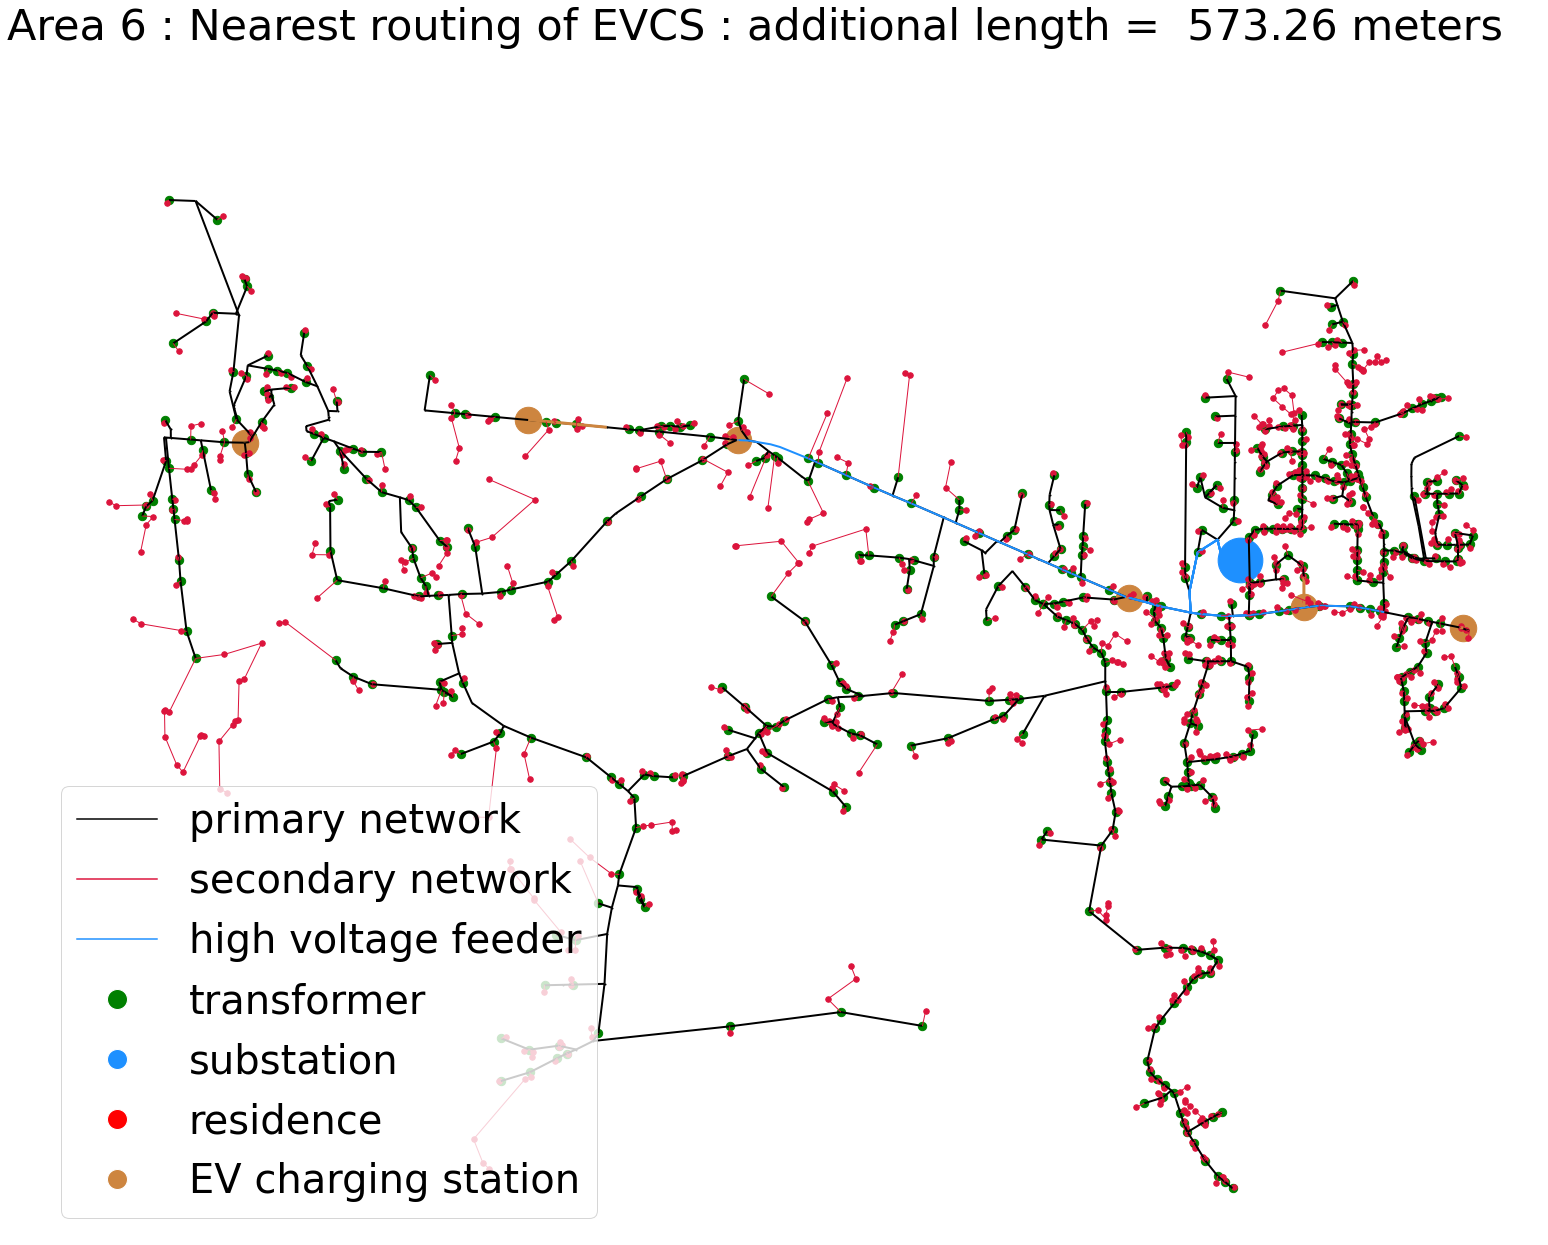
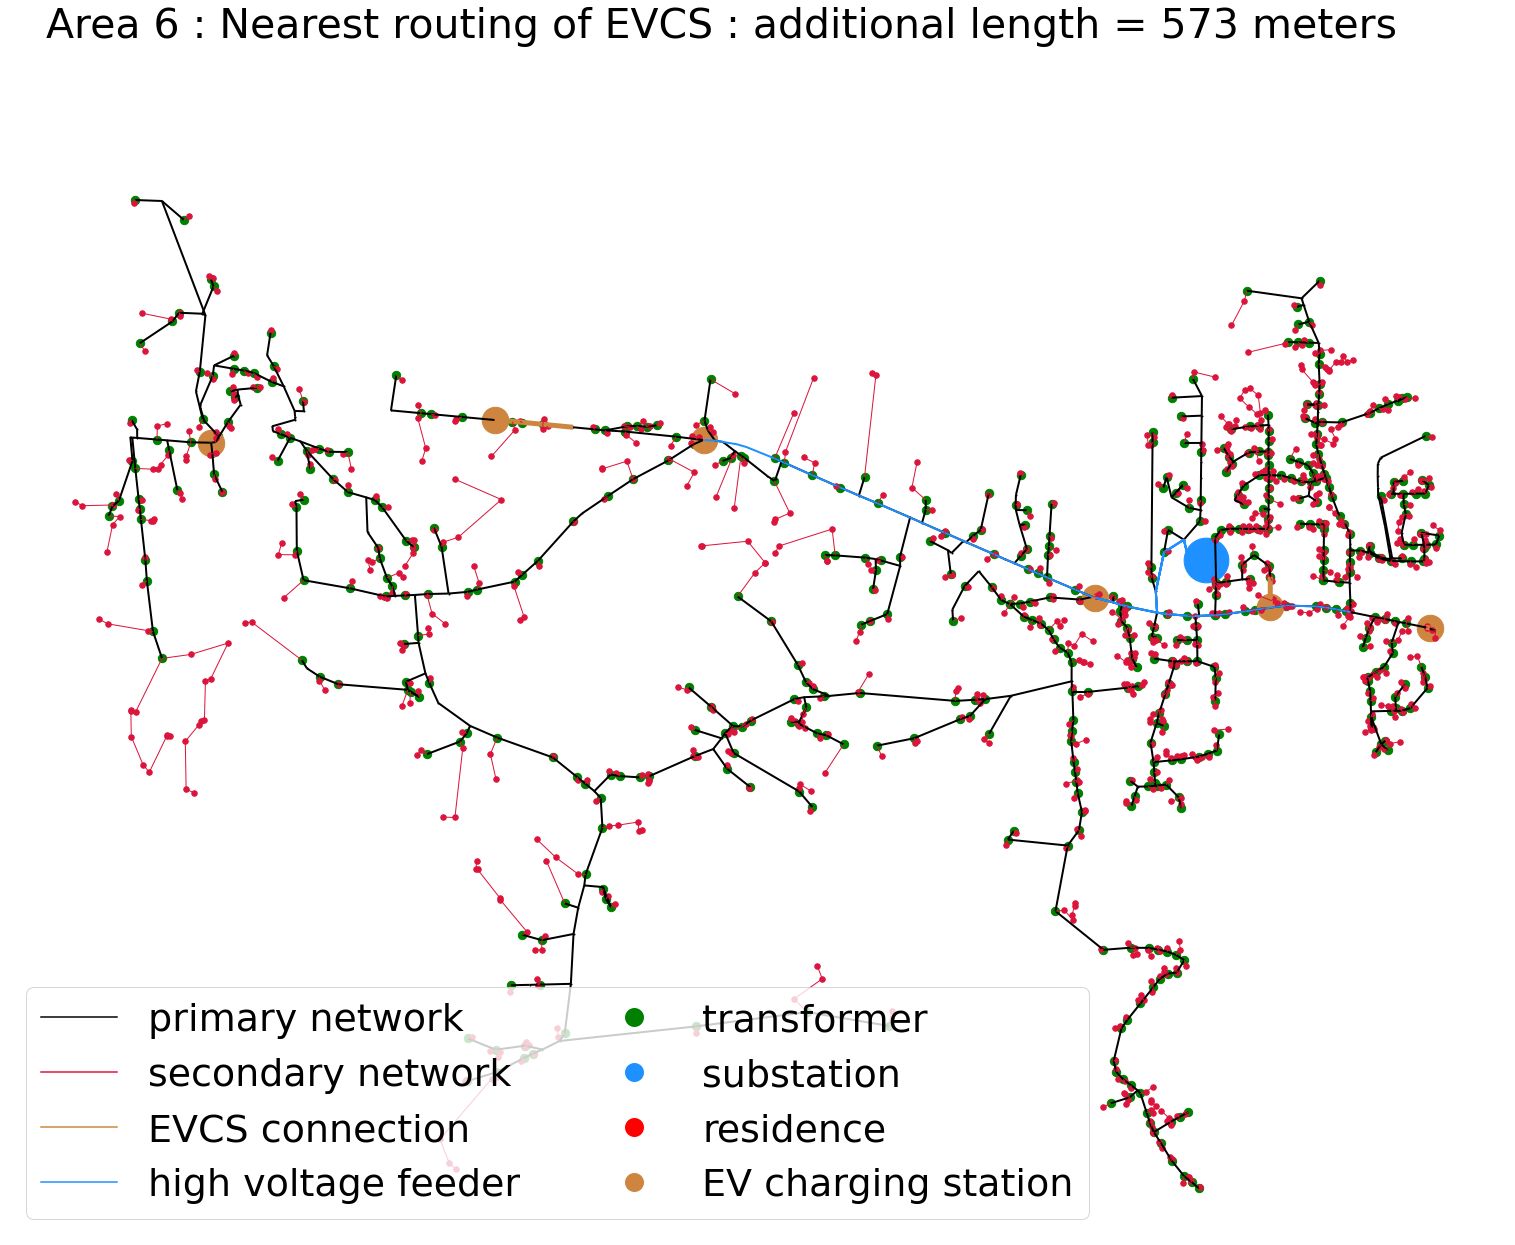
updated figs

diff --git a/test-routing.py b/test-routing.py
@@ -15,7 +15,7 @@ synth_net, evcs = fx.read_inputs()
 fx.plot_synth_net(synth_net, 
                   suptitle_sfx = "Synthetic distribution network",
                   to_file = f"{fx.area}_synthetic_net", 
-                  show = True, fontsize=40, 
+                  show = True, fontsize=38, 
                   )
 for conn in ["nearest", "optimal"]:
     synth_net, evcs = fx.read_inputs()
@@ -32,7 +32,8 @@ for conn in ["nearest", "optimal"]:
                         for e in synth_net.edges])
     add = final - initial
     fx.plot_synth_net(synth_net, 
-                      suptitle_sfx = f"{conn.title()} routing of EVCS : additional length = {add : 0.2f} meters",
+                      suptitle_sfx = f"{conn.title()} routing of EVCS : additional length = {int(add)} meters",
                       to_file = f"{fx.area}_evcs_{conn}_connection", 
-                      show = True, fontsize=40,
+                      show = True, fontsize=38,
+                      evcs_conn_width = 5.0
                       )

diff --git a/pyUtilslib.py b/pyUtilslib.py
@@ -194,9 +194,13 @@ def plot_network(net, ax, **kwargs):
             Line2D([0], [0], color='white', markerfacecolor='peru', 
                marker='o',markersize=20,label="EV charging station")
             )
+        leghands.insert(2,
+            Line2D([0], [0], color='peru', markerfacecolor='peru', 
+               marker='o',markersize=0,label='EVCS connection')
+            )
     
     ax.tick_params(left=False,bottom=False,labelleft=False,labelbottom=False)
-    ax.legend(handles=leghands,loc='best',ncol=1,
+    ax.legend(handles=leghands,loc='best',ncol=2,
               fontsize=fontsize)
     return
 
